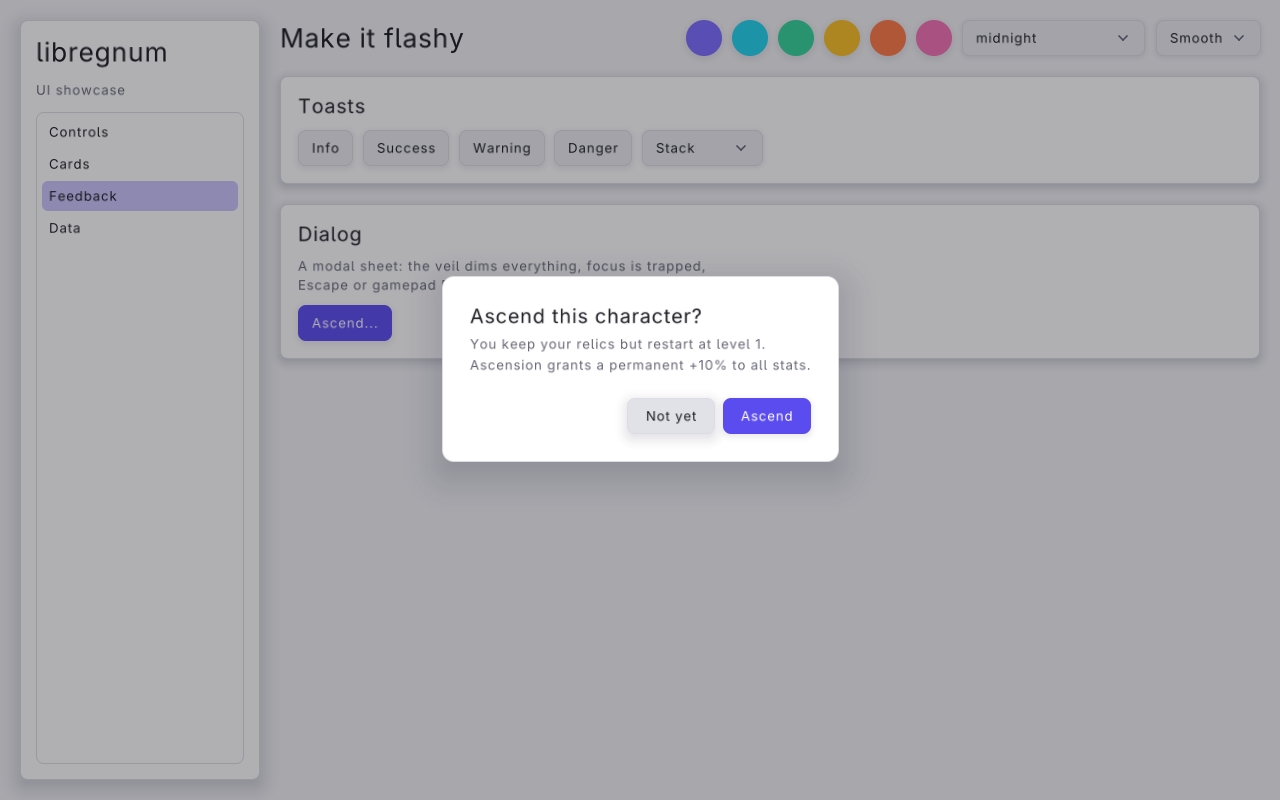
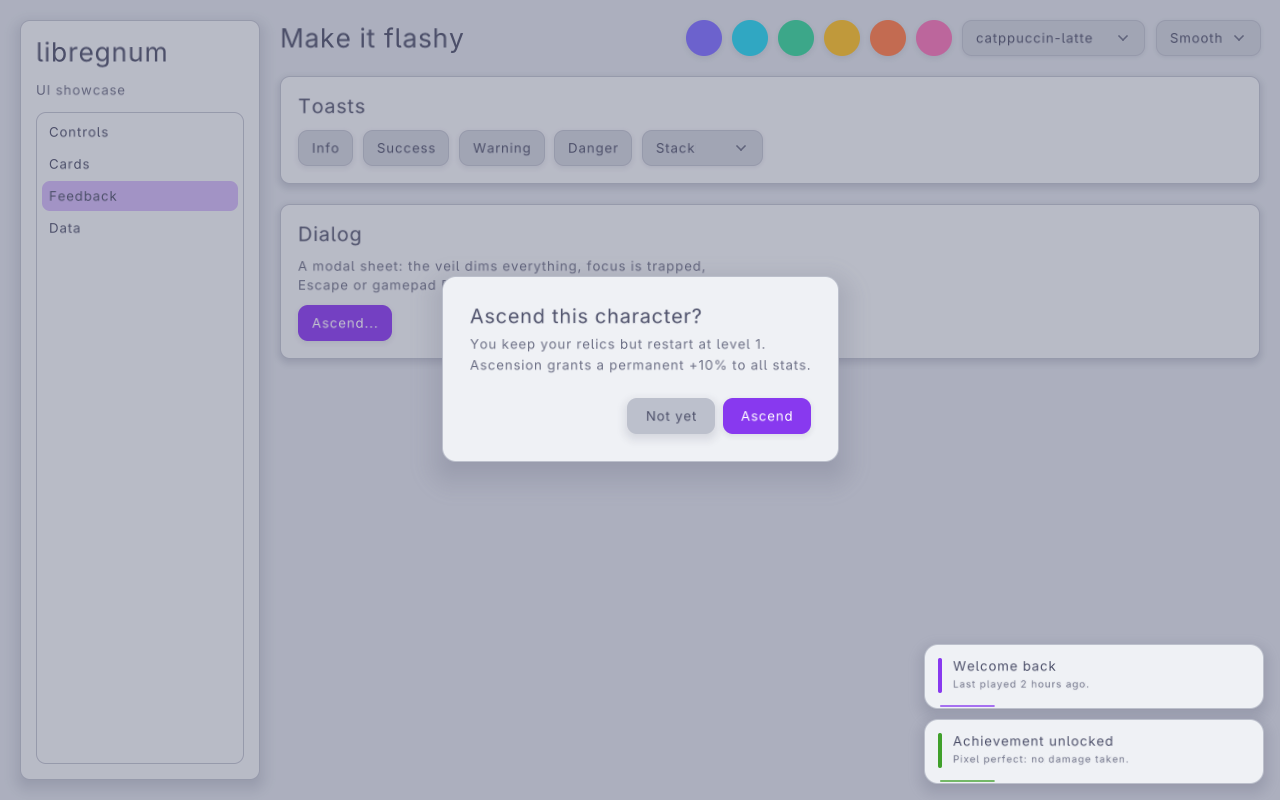
feat(ui): canvas overlay layer above popups; tab and progress polish
- LrgCanvas gains an overlay layer (lrg_canvas_add_overlay(),
  remove_overlay(), get_n_overlays()): painted after popups and modal
  veils and hit-tested first, never reached by focus navigation. The
  examples put their toast queues there, so toasts stay bright while
  a dialog is open.
- TabView insets tab content by the theme's control padding.
- ProgressBar's indeterminate segment ping-pongs inside the track
  instead of sliding off the ends, so it is always fully visible.

Claude-Session: https://claude.ai/code/session_01LG92f3VWkCp9KC1jtgMKsN

diff --git a/src/ui/lrg-canvas.c b/src/ui/lrg-canvas.c
@@ -58,6 +58,9 @@ struct _LrgCanvas
 	GArray       *popups;           /* PopupEntry, open */
 	GArray       *closing;          /* PopupEntry, fading out */
 
+	/* Overlay layer: above popups and their veils (toasts, HUD) */
+	GPtrArray    *overlays;         /* owned refs */
+
 	/* Rendering */
 	LrgPaintList *paint;
 
@@ -215,6 +218,14 @@ lrg_canvas_dispose (GObject *object)
 		g_array_set_size (self->popups, 0);
 	if (self->closing != NULL)
 		g_array_set_size (self->closing, 0);
+	if (self->overlays != NULL)
+	{
+		guint i;
+
+		for (i = 0; i < self->overlays->len; i++)
+			_lrg_widget_set_parent (g_ptr_array_index (self->overlays, i), NULL);
+		g_ptr_array_set_size (self->overlays, 0);
+	}
 
 	G_OBJECT_CLASS (lrg_canvas_parent_class)->dispose (object);
 }
@@ -227,6 +238,7 @@ lrg_canvas_finalize (GObject *object)
 	g_clear_pointer (&self->hover_path, g_ptr_array_unref);
 	g_clear_pointer (&self->popups, g_array_unref);
 	g_clear_pointer (&self->closing, g_array_unref);
+	g_clear_pointer (&self->overlays, g_ptr_array_unref);
 	g_clear_object (&self->paint);
 
 	G_OBJECT_CLASS (lrg_canvas_parent_class)->finalize (object);
@@ -383,6 +395,7 @@ lrg_canvas_init (LrgCanvas *self)
 	g_array_set_clear_func (self->popups, popup_entry_clear);
 	self->closing = g_array_new (FALSE, TRUE, sizeof (PopupEntry));
 	g_array_set_clear_func (self->closing, popup_entry_clear);
+	self->overlays = g_ptr_array_new_with_free_func (g_object_unref);
 	self->paint = lrg_paint_list_new ();
 	self->navigation_enabled = TRUE;
 	self->last_mouse_x = -1.0f;
@@ -468,7 +481,15 @@ lrg_canvas_widget_at_point (LrgCanvas *self,
 
 	g_return_val_if_fail (LRG_IS_CANVAS (self), NULL);
 
-	/* Popups are on top; the newest first */
+	/* The overlay layer is above everything, newest first */
+	for (i = (gint) self->overlays->len - 1; i >= 0; i--)
+	{
+		hit = find_widget_at_point_recursive (g_ptr_array_index (self->overlays, i), x, y);
+		if (hit != NULL)
+			return hit;
+	}
+
+	/* Popups are next; the newest first */
 	modal = top_modal_index (self);
 	for (i = (gint) self->popups->len - 1; i >= 0; i--)
 	{
@@ -1383,6 +1404,9 @@ lrg_canvas_update (LrgCanvas *self,
 		busy |= lrg_spring_step (&e->veil, delta_time);
 	}
 
+	for (i = 0; i < self->overlays->len; i++)
+		busy |= lrg_widget_step (g_ptr_array_index (self->overlays, i), delta_time);
+
 	/* Closing ghosts: run down, then release */
 	for (i = 0; i < self->closing->len;)
 	{
@@ -1453,6 +1477,8 @@ lrg_canvas_record (LrgCanvas *self)
 			queue_layout_all (root);
 			for (i = 0; i < self->popups->len; i++)
 				queue_layout_all (g_array_index (self->popups, PopupEntry, i).popup);
+			for (i = 0; i < self->overlays->len; i++)
+				queue_layout_all (g_ptr_array_index (self->overlays, i));
 		}
 		g_set_weak_pointer (&self->seen_theme, theme);
 		self->seen_generation = lrg_theme_get_generation (theme);
@@ -1462,6 +1488,8 @@ lrg_canvas_record (LrgCanvas *self)
 	lrg_widget_layout (root);
 	for (i = 0; i < self->popups->len; i++)
 		lrg_widget_layout (g_array_index (self->popups, PopupEntry, i).popup);
+	for (i = 0; i < self->overlays->len; i++)
+		lrg_widget_layout (g_ptr_array_index (self->overlays, i));
 
 	lrg_paint_list_clear (self->paint);
 	if (!lrg_widget_get_visible (root))
@@ -1502,6 +1530,10 @@ lrg_canvas_record (LrgCanvas *self)
 		lrg_widget_paint (e->popup, self->paint);
 	}
 
+	/* The overlay layer, above popups and veils */
+	for (i = 0; i < self->overlays->len; i++)
+		lrg_widget_paint (g_ptr_array_index (self->overlays, i), self->paint);
+
 	return self->paint;
 }
 
@@ -1520,4 +1552,49 @@ lrg_canvas_get_paint_list (LrgCanvas *self)
 	g_return_val_if_fail (LRG_IS_CANVAS (self), NULL);
 
 	return self->paint;
+}
+
+/* ==========================================================================
+ * Overlay layer
+ * ========================================================================== */
+
+void
+lrg_canvas_add_overlay (LrgCanvas *self,
+                        LrgWidget *widget)
+{
+	g_return_if_fail (LRG_IS_CANVAS (self));
+	g_return_if_fail (LRG_IS_WIDGET (widget));
+	g_return_if_fail (lrg_widget_get_parent (widget) == NULL);
+
+	/* Parented to the canvas for coordinates and theme, but kept out of
+	 * the child list: drawn and hit-tested above popups */
+	g_ptr_array_add (self->overlays, g_object_ref (widget));
+	_lrg_widget_set_parent (widget, LRG_CONTAINER (self));
+	lrg_widget_queue_layout (widget);
+}
+
+void
+lrg_canvas_remove_overlay (LrgCanvas *self,
+                           LrgWidget *widget)
+{
+	g_return_if_fail (LRG_IS_CANVAS (self));
+	g_return_if_fail (LRG_IS_WIDGET (widget));
+
+	if (!g_ptr_array_find (self->overlays, widget, NULL))
+		return;
+
+	if (self->capture != NULL &&
+	    (self->capture == widget || lrg_widget_is_ancestor (self->capture, widget)))
+		g_clear_object (&self->capture);
+	update_hover (self, NULL);
+	_lrg_widget_set_parent (widget, NULL);
+	g_ptr_array_remove (self->overlays, widget);
+}
+
+guint
+lrg_canvas_get_n_overlays (LrgCanvas *self)
+{
+	g_return_val_if_fail (LRG_IS_CANVAS (self), 0);
+
+	return self->overlays->len;
 }

diff --git a/tests/test-ui-input.c b/tests/test-ui-input.c
@@ -910,6 +910,43 @@ test_popup_modal_traps (CanvasFixture *fixture,
 }
 
 static void
+test_overlay_layer (CanvasFixture *fixture,
+                    gconstpointer  user_data)
+{
+	g_autoptr(GString) log = g_string_new (NULL);
+	TestProbe         *dialog = probe_new ("dialog", log, 0, 0, 300, 200, FALSE);
+	TestProbe         *layer = probe_new ("layer", log, 0, 0, 800, 600, FALSE);
+	TestProbe         *chip = probe_new ("chip", log, 700, 500, 60, 40, FALSE);
+
+	lrg_widget_set_pointer_transparent (LRG_WIDGET (layer), TRUE);
+	lrg_container_add_child (LRG_CONTAINER (layer), LRG_WIDGET (chip));
+	lrg_canvas_add_overlay (fixture->canvas, LRG_WIDGET (layer));
+	g_assert_cmpuint (lrg_canvas_get_n_overlays (fixture->canvas), ==, 1);
+	g_assert_true (lrg_widget_get_root (LRG_WIDGET (chip)) == LRG_WIDGET (fixture->canvas));
+
+	/* A modal popup swallows clicks outside it... except on the overlay */
+	lrg_canvas_show_popup (fixture->canvas, LRG_WIDGET (dialog), NULL,
+	                       LRG_POPUP_PLACEMENT_CENTER, TRUE);
+	g_assert_true (lrg_canvas_widget_at_point (fixture->canvas, 720, 520) == LRG_WIDGET (chip));
+	g_assert_null (lrg_canvas_widget_at_point (fixture->canvas, 20, 20));
+	click_at (fixture->canvas, 720, 520);
+	g_assert_true (log_has (log, "chip:down"));
+
+	/* Focus navigation never lands on the overlay */
+	lrg_widget_set_focusable (LRG_WIDGET (chip), TRUE);
+	frame_nav (fixture->canvas, LRG_NAV_DIRECTION_NEXT);
+	g_assert_true (lrg_canvas_get_focused_widget (fixture->canvas) != LRG_WIDGET (chip));
+
+	lrg_canvas_remove_overlay (fixture->canvas, LRG_WIDGET (layer));
+	g_assert_cmpuint (lrg_canvas_get_n_overlays (fixture->canvas), ==, 0);
+	g_assert_null (lrg_widget_get_parent (LRG_WIDGET (layer)));
+
+	g_object_unref (dialog);
+	g_object_unref (layer);
+	g_object_unref (chip);
+}
+
+static void
 test_popup_stack_dismiss (CanvasFixture *fixture,
                           gconstpointer  user_data)
 {
@@ -982,6 +1019,7 @@ main (int   argc,
     ADD ("/ui/input/popup/light-dismiss", test_popup_light_dismiss);
     ADD ("/ui/input/popup/modal", test_popup_modal_traps);
     ADD ("/ui/input/popup/stack", test_popup_stack_dismiss);
+    ADD ("/ui/input/popup/overlay-layer", test_overlay_layer);
 
 #undef ADD
 

diff --git a/src/ui/lrg-canvas.h b/src/ui/lrg-canvas.h
@@ -364,4 +364,46 @@ LrgPopupPlacement lrg_canvas_place_popup (gfloat             canvas_width,
                                           gfloat            *x,
                                           gfloat            *y);
 
+/* ==========================================================================
+ * Overlay layer
+ * ========================================================================== */
+
+/**
+ * lrg_canvas_add_overlay:
+ * @self: an #LrgCanvas
+ * @widget: a widget without a parent; the canvas takes a reference
+ *
+ * Adds @widget to the overlay layer, which is drawn and hit-tested
+ * above everything else, including popups and the veil of a modal
+ * dialog. Use it for notifications (an #LrgToastQueue), HUD layers and
+ * cursors that must stay visible and bright while a dialog is open.
+ * Overlay widgets are not reached by focus navigation; make full-layer
+ * widgets pointer-transparent so clicks reach what is underneath.
+ * The widget is parented to the canvas (coordinates and theme) and
+ * sized like any canvas child: give it a size, or let it size itself.
+ */
+LRG_AVAILABLE_IN_ALL
+void lrg_canvas_add_overlay (LrgCanvas *self,
+                             LrgWidget *widget);
+
+/**
+ * lrg_canvas_remove_overlay:
+ * @self: an #LrgCanvas
+ * @widget: a widget added with lrg_canvas_add_overlay()
+ *
+ * Removes @widget from the overlay layer and releases it.
+ */
+LRG_AVAILABLE_IN_ALL
+void lrg_canvas_remove_overlay (LrgCanvas *self,
+                                LrgWidget *widget);
+
+/**
+ * lrg_canvas_get_n_overlays:
+ * @self: an #LrgCanvas
+ *
+ * Returns: number of widgets in the overlay layer
+ */
+LRG_AVAILABLE_IN_ALL
+guint lrg_canvas_get_n_overlays (LrgCanvas *self);
+
 G_END_DECLS

diff --git a/src/ui/lrg-tab-view.c b/src/ui/lrg-tab-view.c
@@ -578,7 +578,14 @@ lrg_tab_view_layout_children (LrgContainer *container)
     gfloat      width = lrg_widget_get_width (LRG_WIDGET (container));
     gfloat      height = lrg_widget_get_height (LRG_WIDGET (container));
     gfloat      content_y;
+    gfloat      inset_x;
+    gfloat      inset_y;
     guint       i;
+
+    inset_x = lrg_theme_get_metric (lrg_widget_get_theme (LRG_WIDGET (container)),
+                                    LRG_THEME_METRIC_PADDING_X);
+    inset_y = lrg_theme_get_metric (lrg_widget_get_theme (LRG_WIDGET (container)),
+                                    LRG_THEME_METRIC_PADDING_Y);
 
     content_y = self->tab_position == LRG_TAB_POSITION_TOP ? self->tab_height + padding : padding;
 
@@ -589,9 +596,12 @@ lrg_tab_view_layout_children (LrgContainer *container)
         if (entry->content == NULL)
             continue;
 
-        lrg_widget_place_in_slot (entry->content, padding, content_y,
-                                  MAX (width - padding * 2.0f, 0.0f),
-                                  MAX (height - self->tab_height - padding * 2.0f, 0.0f));
+        /* Inset by the theme's control padding so content does not sit
+         * against the edge of the content box */
+        lrg_widget_place_in_slot (entry->content, padding + inset_x, content_y + inset_y,
+                                  MAX (width - padding * 2.0f - inset_x * 2.0f, 0.0f),
+                                  MAX (height - self->tab_height - padding * 2.0f - inset_y * 2.0f,
+                                       0.0f));
 
         /* Only the active tab's content is visible */
         if (lrg_widget_get_visible (entry->content) != (i == self->active_tab))

diff --git a/src/ui/lrg-progress-bar.c b/src/ui/lrg-progress-bar.c
@@ -31,7 +31,7 @@
  * Private Data
  * ========================================================================== */
 
-/* Seconds for one indeterminate sweep across the track */
+/* Seconds for one indeterminate sweep there and back */
 #define SWEEP_PERIOD (1.6f)
 
 /* Indeterminate segment length as a fraction of the track */
@@ -277,9 +277,17 @@ paint_indeterminate (LrgProgressBar    *self,
     gfloat     length = horizontal ? w : h;
     gfloat     seg = length * SWEEP_SEGMENT;
     gfloat     t = self->sweep;
-    gfloat     eased = t * t * (3.0f - 2.0f * t);
-    gfloat     start = -seg + eased * (length + seg);
+    gfloat     p;
+    gfloat     eased;
+    gfloat     start;
     GrlColor   shine;
+
+    /* Ping-pong inside the track: the segment glides end to end and
+     * back, easing at each end, and is always fully visible (a sweep
+     * that left the track showed only a sliver in many frames) */
+    p = t < 0.5f ? t * 2.0f : (1.0f - t) * 2.0f;
+    eased = p * p * (3.0f - 2.0f * p);
+    start = eased * (length - seg);
 
     lrg_paint_list_push_clip (list, x, y, w, h);
 

diff --git a/examples/ui-showcase.c b/examples/ui-showcase.c
@@ -731,9 +731,10 @@ build_ui (Showcase *app)
 
 	lrg_container_add_child (LRG_CONTAINER (app->canvas), LRG_WIDGET (app->root));
 
-	/* Toasts float above everything, bottom-right */
+	/* Toasts live in the overlay layer: above everything, even a
+	 * modal dialog's veil, bottom-right */
 	app->toasts = lrg_toast_queue_new ();
-	lrg_container_add_child (LRG_CONTAINER (app->canvas), LRG_WIDGET (app->toasts));
+	lrg_canvas_add_overlay (app->canvas, LRG_WIDGET (app->toasts));
 
 	lrg_list_view_select (app->nav, 0);
 	show_page (app, 0);

diff --git a/examples/game-ui-menu.c b/examples/game-ui-menu.c
@@ -462,7 +462,7 @@ build_ui (Game *game)
 	game->toasts = lrg_toast_queue_new ();
 	lrg_toast_queue_set_toast_valign (game->toasts, LRG_ALIGN_START);
 	lrg_widget_set_size (LRG_WIDGET (game->toasts), VIRTUAL_W, VIRTUAL_H);
-	lrg_container_add_child (LRG_CONTAINER (game->canvas), LRG_WIDGET (game->toasts));
+	lrg_canvas_add_overlay (game->canvas, LRG_WIDGET (game->toasts));
 }
 
 /* ==========================================================================
